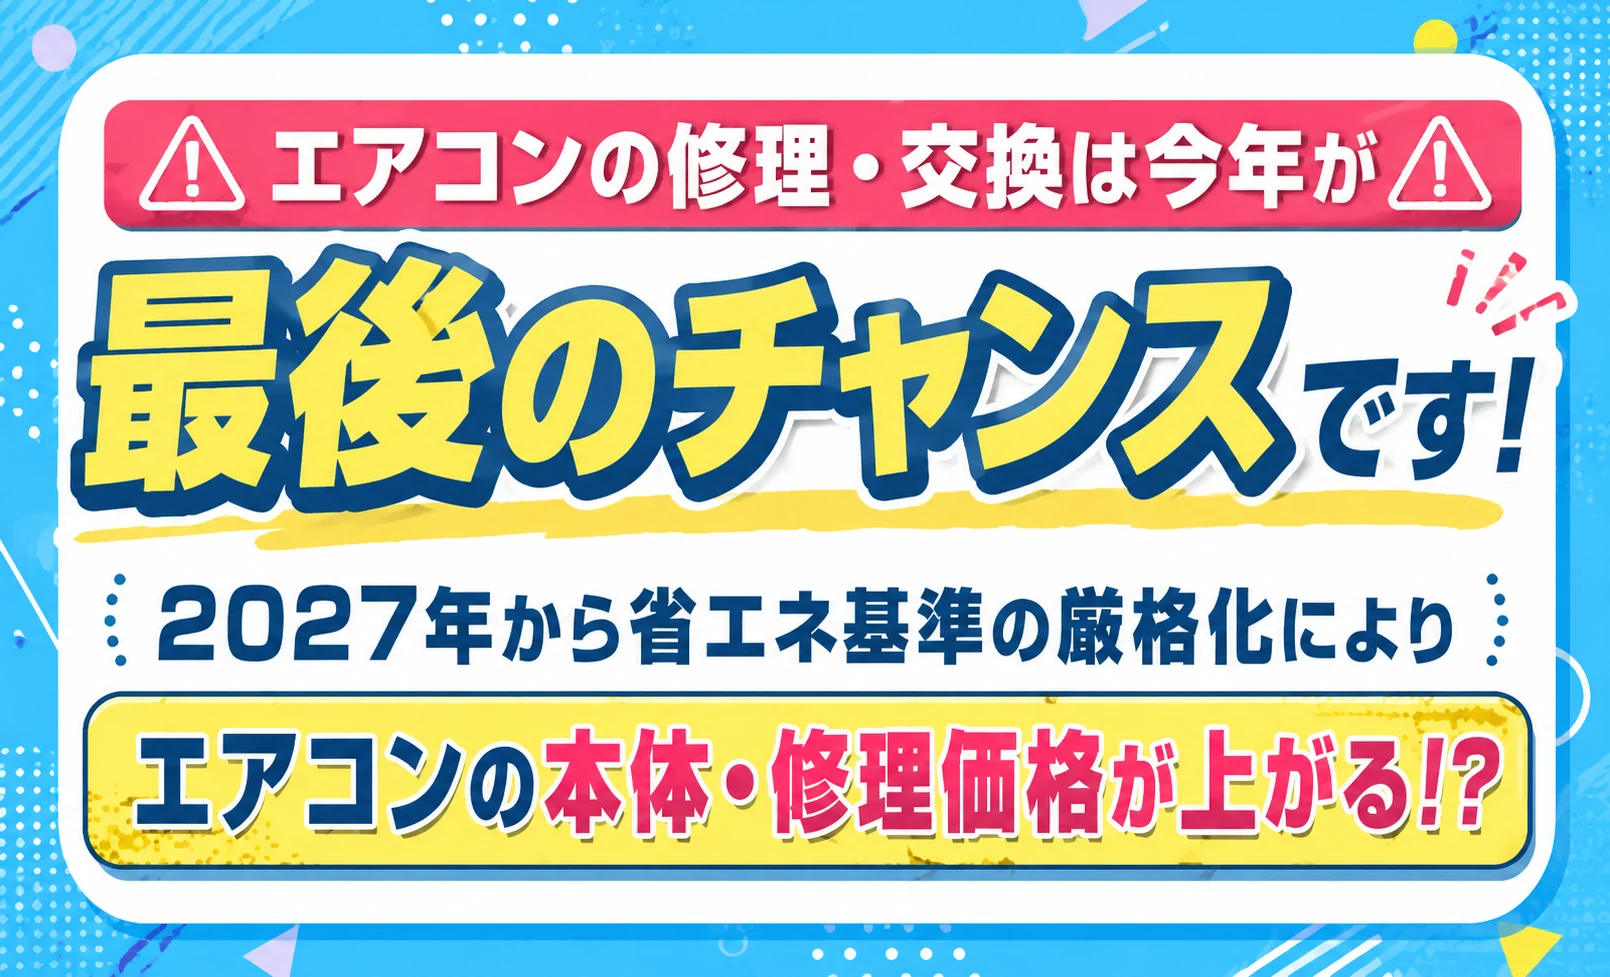
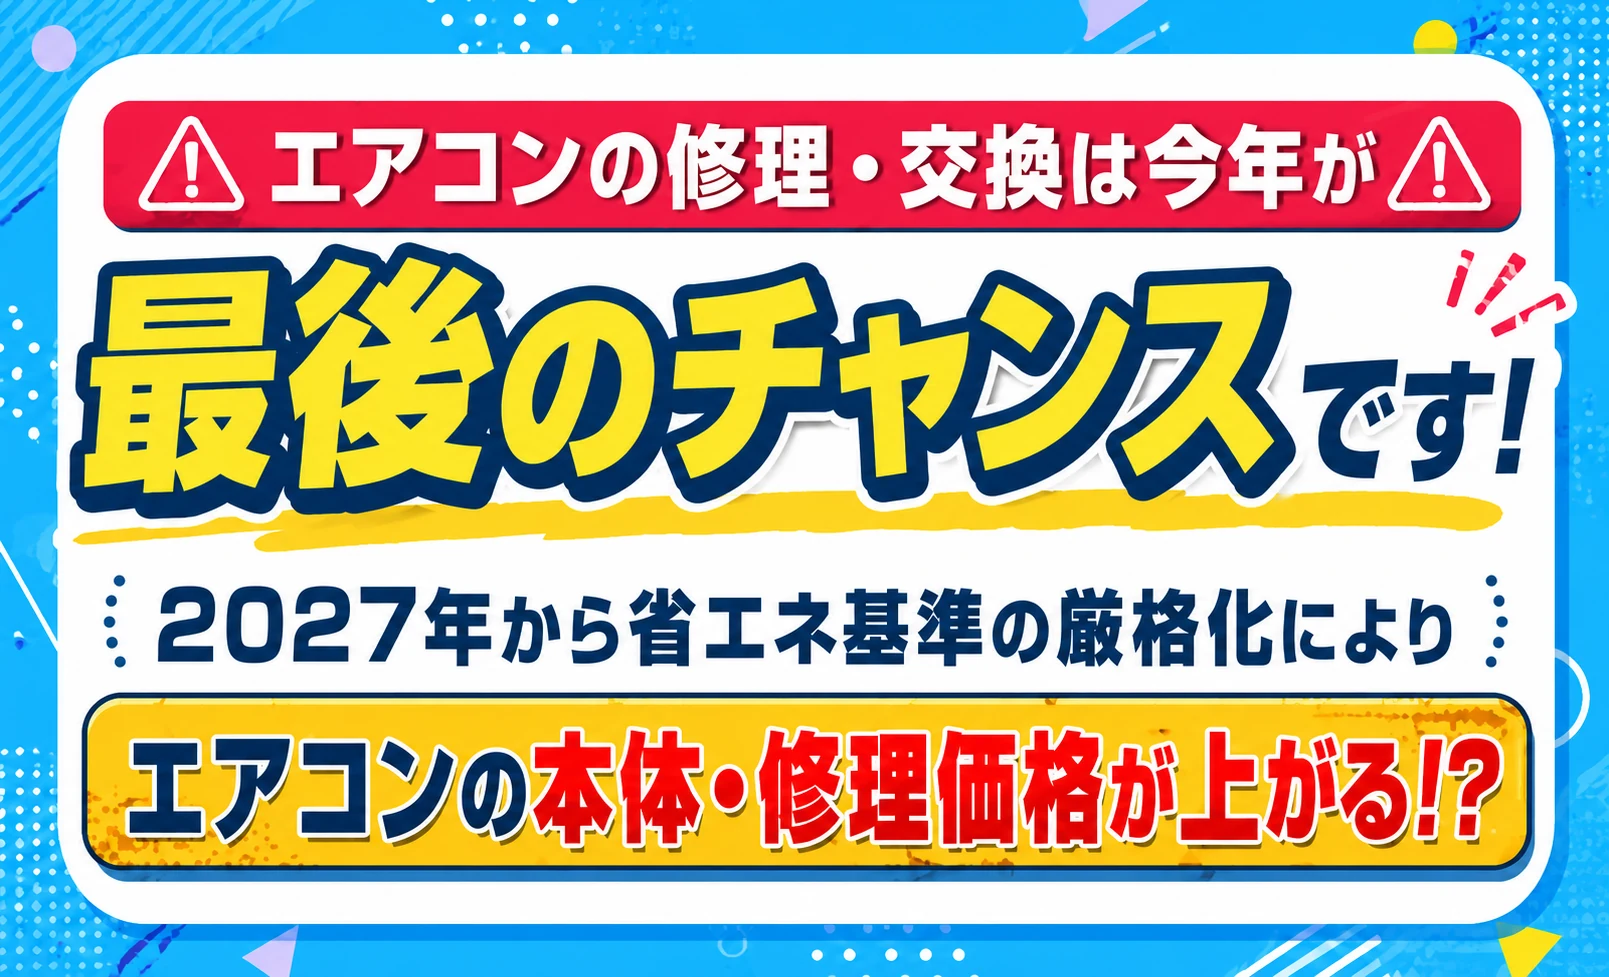
Update aircon-lp02 back popup and warning image

diff --git a/aircon-lp02/index.html b/aircon-lp02/index.html
@@ -23,7 +23,7 @@
 <link rel="icon" href="./assets/favicon.webp" type="image/png">
 <link rel="apple-touch-icon" href="./assets/favicon.webp">
  <link rel="preload" as="image" href="./assets/main-visual-aircon-repair.webp?v=1" fetchpriority="high">
-<link rel="preload" as="image" href="./assets/aircon-2027-last-chance.webp">  <link rel="stylesheet" href="./css/styles.css?v=18">
+<link rel="preload" as="image" href="./assets/aircon-2027-last-chance.webp?v=20260806-1607">  <link rel="stylesheet" href="./css/styles.css?v=18">
 <link rel="stylesheet" href="./css/fixed-cta.css?v=10">
 </head>
 <body>
@@ -76,7 +76,7 @@
       </div>
 
       <div class="fv-warning-panel">
-        <img src="assets/aircon-2027-last-chance.webp" alt="エアコンの修理・交換は今年が最後のチャンスです。2027年から省エネ基準の厳格化によりエアコンの本体・修理価格が上がる可能性があります。">
+        <img src="assets/aircon-2027-last-chance.webp?v=20260806-1607" alt="エアコンの修理・交換は今年が最後のチャンスです。2027年から省エネ基準の厳格化によりエアコンの本体・修理価格が上がる可能性があります。">
         <div class="fv-warning-accordion" aria-label="エアコン2027年問題の詳細">
           <details>
             <summary>エアコン2027年問題とは？</summary>
@@ -106,7 +106,7 @@
 
     <!-- Plan -->
     <section class="section plan-image-section">
-      <img class="plan-symptoms-image" src="assets/aircon-trouble-symptoms.webp" alt="冷たい風が出ない、エアコンが動かない、風が弱い、水漏れ、異音・異臭など暑い季節のエアコントラブル">
+      <img class="plan-symptoms-image" src="assets/aircon-trouble-symptoms.webp?v=20260806-1505" alt="冷たい風が出ない、エアコンが動かない、風が弱い、水漏れ、異音・異臭など暑い季節のエアコントラブル">
     </section>
 
     <div class="section-scroll-mark" aria-hidden="true">
@@ -918,6 +918,6 @@
     <a class="fixed-line line-cta fixed-cta fixed-line-hidden" href="https://line.me/R/ti/p/@example" target="_blank" rel="noopener" aria-hidden="true" tabindex="-1">LINEで相談</a>
   </nav>
 
- <script src="./js/script.js?v=14"></script>
+ <script src="./js/script.js?v=15"></script>
 </body>
 </html>

diff --git a/aircon-lp02/js/script.js b/aircon-lp02/js/script.js
@@ -381,18 +381,6 @@ if (exitPopup) {
     exitPopupLastTrigger?.focus?.();
   };
 
-  const handleDesktopExit = (event) => {
-    const isLeavingViewport = !event.relatedTarget && event.clientY <= 32;
-
-    if (isLeavingViewport) {
-      openExitPopup();
-    }
-  };
-
-  document.addEventListener("mouseout", handleDesktopExit);
-  document.documentElement.addEventListener("mouseleave", handleDesktopExit);
-  window.addEventListener("blur", () => openExitPopup());
-
   let backPopupShown = false;
 
   try {
@@ -415,47 +403,6 @@ if (exitPopup) {
   } catch {
     // Some embedded browsers restrict history manipulation.
   }
-
-  document.addEventListener("click", (event) => {
-    const link = event.target.closest("a[href]");
-
-    if (!link || link.closest("#exitPopup")) return;
-
-    const href = link.getAttribute("href") || "";
-    const isConversionLink =
-      link.classList.contains("tel-cta") ||
-      link.classList.contains("mail-cta") ||
-      href.startsWith("tel:") ||
-      href.startsWith("mailto:") ||
-      href.startsWith("#");
-
-    if (isConversionLink || allowExitNavigation) return;
-
-    event.preventDefault();
-    openExitPopup(link, { force: true });
-  });
-
-  let mobileExitTimer = null;
-
-  const scheduleMobileExitPopup = () => {
-    const isMobileWidth = window.matchMedia("(max-width: 768px)").matches;
-
-    if (!isMobileWidth || window.scrollY < 360 || mobileExitTimer) return;
-
-    mobileExitTimer = window.setTimeout(() => {
-      openExitPopup();
-    }, 3500);
-  };
-
-  window.addEventListener("scroll", scheduleMobileExitPopup, { passive: true });
-
-  window.setTimeout(() => {
-    const isMobileWidth = window.matchMedia("(max-width: 768px)").matches;
-
-    if (isMobileWidth && window.scrollY > 160) {
-      openExitPopup();
-    }
-  }, 8000);
 
   exitPopupCloseButtons.forEach((button) => {
     button.addEventListener("click", closeExitPopup);
